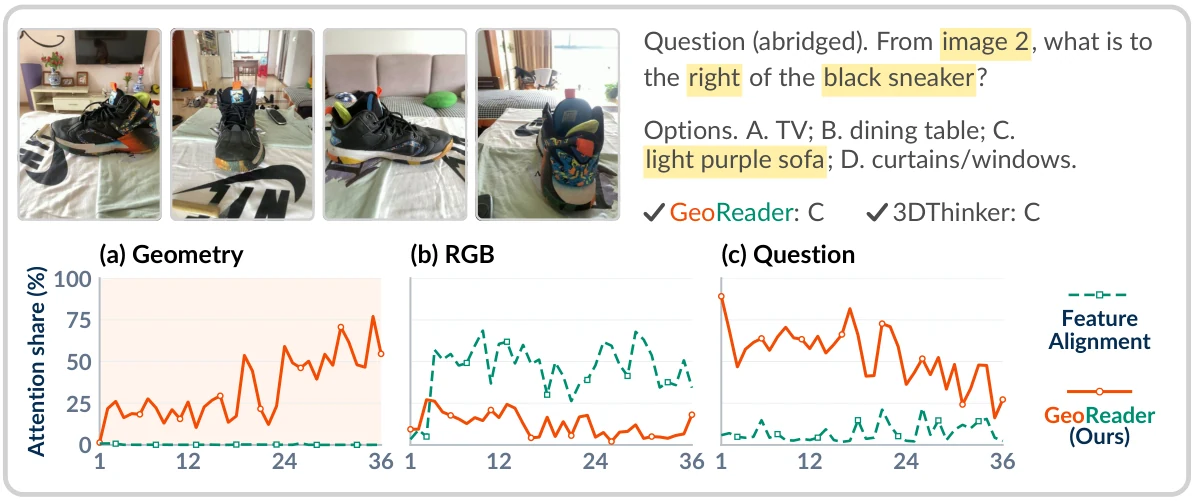
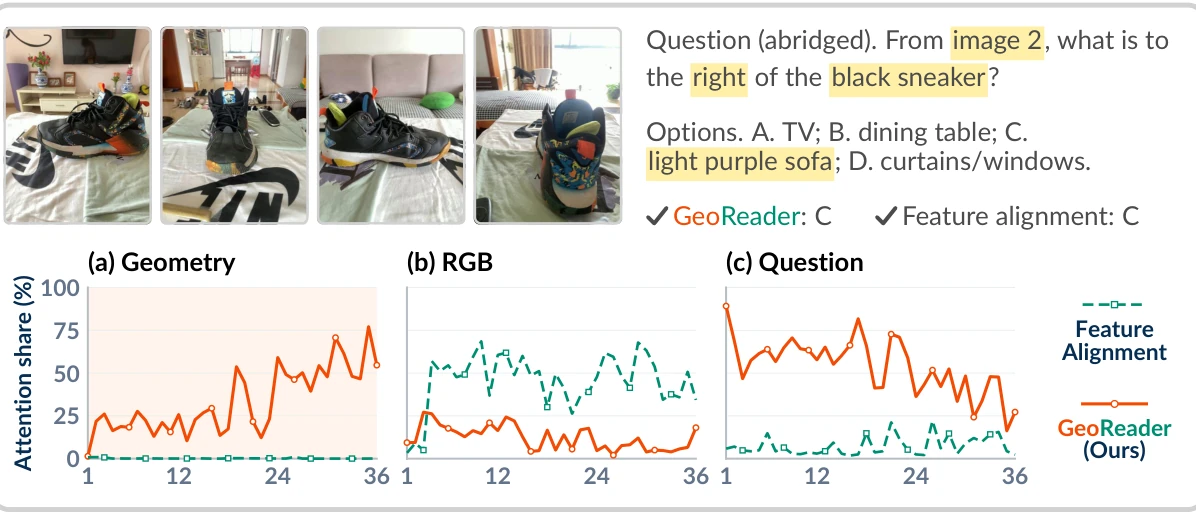
主页用中性标签展示特征对齐对照

Changed region(s): [[0.0, 0.0, 1.0, 1.0], [0.5888, 0.479, 0.7437, 0.5389], [0.3409, 0.479, 0.4338, 0.5389]]

diff --git a/index.html b/index.html
@@ -93,10 +93,10 @@
               <a class="figure-image-link" href="assets/teaser.webp" target="_blank" rel="noopener" aria-label="Open figure at full size"><img src="assets/teaser.webp" alt="A spatial question about a living-room scene, followed by QA-only fusion, feature alignment, and GeoReader's two training stages." width="1620" height="843" /></a>
               <p class="figure-note"><strong>Figure 1.</strong> Three routes from RGB and estimated geometry to a spatial answer. <span class="wordmark"><span class="wordmark-geo">Geo</span><span class="wordmark-reader">Reader</span></span> first makes geometric tokens readable to the VLM, then trains the VLM to use them.</p>
             </div>
-            <p>For example, zeroing the latents of a released feature-alignment checkpoint (3DThinker) leaves its MindCube-Tiny accuracy essentially unchanged (62.7 → 62.9), and its answer tokens barely attend to those latents (Figure 2).</p>
+            <p>For one released feature-alignment checkpoint, zeroing the latents leaves MindCube-Tiny accuracy essentially unchanged (62.7 → 62.9). Figure 2 shows that its answer tokens give little direct attention to those latents in one example.</p>
               <div class="figure-frame visual-figure">
 
-                <a class="figure-image-link" href="assets/answer-attention.webp" target="_blank" rel="noopener" aria-label="Open answer-token attention figure at full size"><img src="assets/answer-attention.webp" alt="A four-view shoe question and layerwise attention-share curves for geometry, RGB, and question tokens, comparing GeoReader with feature alignment." width="1194" height="501" loading="lazy" decoding="async" /></a>
+                <a class="figure-image-link" href="assets/answer-attention.webp" target="_blank" rel="noopener" aria-label="Open answer-token attention figure at full size"><img src="assets/answer-attention.webp" alt="A four-view shoe question and layerwise attention-share curves for geometry, RGB, and question tokens, comparing GeoReader with feature alignment." width="1196" height="515" loading="lazy" decoding="async" /></a>
                 <p class="figure-note"><strong>Figure 2.</strong> On this MindCube-Tiny question, <span class="wordmark"><span class="wordmark-geo">Geo</span><span class="wordmark-reader">Reader</span></span>'s answer tokens attend more to geometric tokens than the feature-alignment model's answer tokens attend to its latents.</p>
               </div>
 
@@ -152,32 +152,32 @@
 <tr><td>HATCH</td><td>31.0</td><td>50.2</td><td>65.6</td><td>50.2</td></tr>
 <tr><td>SenseNova-SI</td><td>–</td><td>–</td><td>–</td><td>52.6</td></tr>
 <tr><td>DR-MV3D</td><td class="second">43.0</td><td>71.3</td><td>73.6</td><td>66.5</td></tr>
-<tr><td>3DThinker</td><td class="best">55.5</td><td class="second">81.8</td><td class="second">75.2</td><td class="second">75.2</td></tr>
+<tr><td>Feature alignment</td><td class="best">55.5</td><td class="second">81.8</td><td class="second">75.2</td><td class="second">75.2</td></tr>
 <tr class="ours"><td><span class="ours-name"><span class="wordmark"><span class="wordmark-geo">Geo</span><span class="wordmark-reader">Reader</span></span></span></td><td>40.5</td><td class="best">90.3</td><td class="best">91.6</td><td class="best">81.1</td></tr>
 <tr class="block-head"><td colspan="5">Qwen2.5-VL · 7B</td></tr>
 <tr><td>Qwen2.5-VL</td><td>35.0</td><td>33.2</td><td>38.4</td><td>34.8</td></tr>
 <tr><td>SenseNova-SI</td><td>–</td><td>–</td><td>–</td><td>54.7</td></tr>
-<tr><td>3DThinker</td><td class="second">55.0</td><td class="second">83.0</td><td class="second">76.0</td><td class="second">76.0</td></tr>
+<tr><td>Feature alignment</td><td class="second">55.0</td><td class="second">83.0</td><td class="second">76.0</td><td class="second">76.0</td></tr>
 <tr class="ours"><td><span class="ours-name"><span class="wordmark"><span class="wordmark-geo">Geo</span><span class="wordmark-reader">Reader</span></span></span></td><td class="best">90.0</td><td class="best">94.7</td><td class="best">92.4</td><td class="best">93.2</td></tr>
 <tr class="block-head"><td colspan="5">Qwen3-VL · 2B</td></tr>
 <tr><td>Qwen3-VL</td><td>29.5</td><td>33.3</td><td>47.2</td><td>35.9</td></tr>
 <tr><td>Spatial-TTT</td><td class="second">55.5</td><td>74.0</td><td class="second">89.8</td><td class="second">76.2</td></tr>
-<tr><td>3DThinker</td><td>53.0</td><td class="second">83.2</td><td>78.4</td><td class="second">76.2</td></tr>
+<tr><td>Feature alignment</td><td>53.0</td><td class="second">83.2</td><td>78.4</td><td class="second">76.2</td></tr>
 <tr class="ours"><td><span class="ours-name"><span class="wordmark"><span class="wordmark-geo">Geo</span><span class="wordmark-reader">Reader</span></span></span></td><td class="best">59.5</td><td class="best">93.3</td><td class="best">91.6</td><td class="best">86.5</td></tr>
 <tr class="block-head"><td colspan="5">Qwen3-VL · 4B</td></tr>
 <tr><td>Qwen3-VL</td><td>25.0</td><td>25.3</td><td>43.6</td><td>29.6</td></tr>
-<tr><td>3DThinker</td><td class="second">55.0</td><td class="second">81.7</td><td class="second">78.4</td><td class="second">75.8</td></tr>
+<tr><td>Feature alignment</td><td class="second">55.0</td><td class="second">81.7</td><td class="second">78.4</td><td class="second">75.8</td></tr>
 <tr class="ours"><td><span class="ours-name"><span class="wordmark"><span class="wordmark-geo">Geo</span><span class="wordmark-reader">Reader</span></span></span></td><td class="best">94.5</td><td class="best">96.2</td><td class="best">89.6</td><td class="best">94.3</td></tr>
 <tr class="block-head"><td colspan="5">Qwen3-VL · 8B</td></tr>
 <tr><td>Qwen3-VL</td><td>42.0</td><td>32.3</td><td>51.2</td><td>38.7</td></tr>
 <tr><td>SenseNova-SI</td><td class="second">79.5</td><td>73.2</td><td>70.4</td><td>73.8</td></tr>
-<tr><td>3DThinker</td><td>56.5</td><td class="second">82.5</td><td class="second">78.8</td><td>76.7</td></tr>
+<tr><td>Feature alignment</td><td>56.5</td><td class="second">82.5</td><td class="second">78.8</td><td>76.7</td></tr>
 <tr><td>GAMSI</td><td>–</td><td>–</td><td>–</td><td class="best">94.1</td></tr>
 <tr class="ours"><td><span class="ours-name"><span class="wordmark"><span class="wordmark-geo">Geo</span><span class="wordmark-reader">Reader</span></span></span></td><td class="best">91.5</td><td class="best">93.3</td><td class="best">95.2</td><td class="second">93.4</td></tr>
 </tbody>
 </table>
             </div>
-            <p class="table-caption"><strong>Table 1.</strong> MindCube-Tiny accuracy (%). Per API or backbone-size block, <span class="key key-best">bold</span> marks the best and <span class="key key-second">gray</span> the runner-up (only with ≥ 3 models; base rows unshaded). <span class="wordmark"><span class="wordmark-geo">Geo</span><span class="wordmark-reader">Reader</span></span> scores highest in four of the five backbone blocks. Literature results are taken from the cited papers (paper Sec. A.3.4).</p>
+            <p class="table-caption"><strong>Table 1.</strong> MindCube-Tiny accuracy (%). Per API or backbone-size block, <span class="key key-best">bold</span> marks the best and <span class="key key-second">gray</span> the runner-up (only with ≥ 3 models; base rows unshaded). <span class="wordmark"><span class="wordmark-geo">Geo</span><span class="wordmark-reader">Reader</span></span> scores highest in four of the five backbone blocks. Full method names and sources for literature results are in the paper (Sec. A.3.4).</p>
 
             <h3 class="sub-title">Six spatial benchmarks</h3>
             <div class="table-wrap">
@@ -188,7 +188,7 @@
 <tr><td>Qwen2.5-VL-3B<sup>†</sup></td><td>27.3</td><td>39.5</td><td>70.5</td><td>27.9</td><td>36.1</td><td>25.5</td><td>37.8</td></tr>
 <tr><td>Spatial-MLLM-4B</td><td>47.3</td><td>48.4</td><td>73.8</td><td>35.1</td><td>43.6</td><td>31.5</td><td>46.6</td></tr>
 <tr><td>SpatialLadder-3B</td><td>45.7</td><td class="best">70.6</td><td>73.7</td><td>34.4</td><td>44.2</td><td>29.2</td><td>49.6</td></tr>
-<tr><td>3DThinker-3B</td><td class="best">59.1</td><td>60.2</td><td class="second">78.4</td><td class="second">58.2</td><td class="second">64.7</td><td class="best">41.9</td><td class="second">60.4</td></tr>
+<tr><td>Feature alignment · 3B</td><td class="best">59.1</td><td>60.2</td><td class="second">78.4</td><td class="second">58.2</td><td class="second">64.7</td><td class="best">41.9</td><td class="second">60.4</td></tr>
 <tr class="block-gap"><td colspan="8"></td></tr>
 <tr class="ours"><td><span class="ours-name"><span class="wordmark"><span class="wordmark-geo">Geo</span><span class="wordmark-reader">Reader</span></span></span>-3B</td><td class="second">56.1</td><td class="second">70.0</td><td class="best">83.7</td><td class="best">59.1</td><td class="best">71.4</td><td class="second">41.2</td><td class="best">63.6</td></tr>
 <tr class="block-gap"><td colspan="8"></td></tr>
@@ -196,7 +196,7 @@
 <tr><td>SpaceR-7B</td><td>44.5</td><td>54.0</td><td>75.3</td><td>37.1</td><td>45.5</td><td>28.8</td><td>47.5</td></tr>
 <tr><td>ViLaSR-7B</td><td>45.4</td><td>53.9</td><td>77.1</td><td>37.6</td><td>46.1</td><td>30.2</td><td>48.4</td></tr>
 <tr><td>Video-R1</td><td>33.4</td><td>42.8</td><td>69.6</td><td>31.5</td><td>36.1</td><td>29.4</td><td>40.5</td></tr>
-<tr><td>3DThinker-7B</td><td class="best">63.7</td><td class="second">68.3</td><td class="second">81.1</td><td class="best">63.3</td><td class="second">68.6</td><td class="second">43.3</td><td class="second">64.7</td></tr>
+<tr><td>Feature alignment · 7B</td><td class="best">63.7</td><td class="second">68.3</td><td class="second">81.1</td><td class="best">63.3</td><td class="second">68.6</td><td class="second">43.3</td><td class="second">64.7</td></tr>
 <tr class="block-gap"><td colspan="8"></td></tr>
 <tr class="ours"><td><span class="ours-name"><span class="wordmark"><span class="wordmark-geo">Geo</span><span class="wordmark-reader">Reader</span></span></span>-7B</td><td class="second">58.0</td><td class="best">72.3</td><td class="best">84.4</td><td class="second">61.4</td><td class="best">75.6</td><td class="best">45.5</td><td class="best">66.2</td></tr>
 <tr class="block-head"><td colspan="8">Qwen3-VL family</td></tr>
@@ -219,7 +219,7 @@
 </tbody>
 </table>
             </div>
-            <p class="table-caption"><strong>Table 2.</strong> Six-benchmark accuracy (%); Avg. is the mean. Per backbone-size block, <span class="key key-best">bold</span> marks the best and <span class="key key-second">gray</span> the runner-up (only with ≥ 3 models; base rows unshaded); <sup>†</sup> evaluated by us; <sup>*</sup> combined from two sources (paper Sec. A.3.4). <span class="wordmark"><span class="wordmark-geo">Geo</span><span class="wordmark-reader">Reader</span></span> has the highest average in every block.</p>
+            <p class="table-caption"><strong>Table 2.</strong> Six-benchmark accuracy (%); Avg. is the mean. Per backbone-size block, <span class="key key-best">bold</span> marks the best and <span class="key key-second">gray</span> the runner-up (only with ≥ 3 models; base rows unshaded); <sup>†</sup> evaluated by us; <sup>*</sup> combined from two sources. Full method names and sources are in the paper (Sec. A.3.4). <span class="wordmark"><span class="wordmark-geo">Geo</span><span class="wordmark-reader">Reader</span></span> has the highest average in every block.</p>
           </section>
 
           <section id="use" class="section" aria-labelledby="use-title">
@@ -236,7 +236,7 @@
                 </tbody>
               </table>
             </div>
-            <p class="table-caption"><strong>Table 3.</strong> MindCube-Tiny accuracy (%) under geometry interventions with Qwen2.5-VL-3B. <span class="wordmark"><span class="wordmark-geo">Geo</span><span class="wordmark-reader">Reader</span></span> uses annotation-derived camera geometry; feature alignment is the released first-stage 3DThinker checkpoint, whose latents are zeroed or swapped across questions. Only <span class="wordmark"><span class="wordmark-geo">Geo</span><span class="wordmark-reader">Reader</span></span> drops markedly.</p>
+            <p class="table-caption"><strong>Table 3.</strong> MindCube-Tiny accuracy (%) under geometry interventions with Qwen2.5-VL-3B. <span class="wordmark"><span class="wordmark-geo">Geo</span><span class="wordmark-reader">Reader</span></span> uses annotation-derived camera geometry; the comparison uses one released first-stage feature-alignment checkpoint, whose latents are zeroed or swapped across questions. The full checkpoint citation and evaluation details are in the paper.</p>
 
             <h3 class="sub-title">Answer-token attention</h3>
             <p>The attention plots show where answer tokens look in questions that both models answer correctly; Figure 2 in the motivation shows one example, and the curves below cover one question from each MindCube-Tiny category. Geometry-content interventions test whether <span class="wordmark"><span class="wordmark-geo">Geo</span><span class="wordmark-reader">Reader</span></span>'s answers depend on its tokens.</p>
@@ -244,7 +244,7 @@
                 <summary>More attention curves · three question categories</summary>
                 <div class="figure-frame visual-figure">
 
-                  <a class="figure-image-link" href="assets/attention-cases.webp" target="_blank" rel="noopener" aria-label="Open three attention cases at full size"><img src="assets/attention-cases.webp" alt="Three MindCube-Tiny questions with input images, both models' correct answers, and layerwise attention shares for geometry, RGB, and question tokens." width="1194" height="1803" loading="lazy" decoding="async" /></a>
+                  <a class="figure-image-link" href="assets/attention-cases.webp" target="_blank" rel="noopener" aria-label="Open three attention cases at full size"><img src="assets/attention-cases.webp" alt="Three MindCube-Tiny questions with input images, both models' correct answers, and layerwise attention shares for geometry, RGB, and question tokens." width="1196" height="1861" loading="lazy" decoding="async" /></a>
                   <p class="figure-note"><strong>Figure 5.</strong> One question from each MindCube-Tiny category. Both models answer all three correctly; the curves compare direct answer-token attention in these cases.</p>
                 </div>
               </details>

diff --git a/README.md b/README.md
@@ -16,6 +16,6 @@ The GeoReader wordmark follows the paper's `paper_commands.tex`: bold Geo in `#F
 
 `assets/model-logos/` holds the five SVG vendor marks used by the API rows in Table 1. They match the paper's `figures/model_logos/` assets; provenance and the note that these are community renditions are in that folder's README.
 
-The five WebP visualizations are cropped from Figures 3, 4, 9, 10, and 11 of the signed paper PDF (pages 8, 9, 32, 33, and 34). Re-export them when the paper figures or pagination change.
+The WebP visualizations come from the signed paper PDF. The two attention figures use homepage-only versions of the paper's TeX figure layouts: their comparison labels read "Feature alignment" on the homepage, while the paper keeps the named citation and full attribution. Re-export these assets when the paper figures or pagination change.
 
 Page order: Abstract → 01 Motivation → 02 Method → 03 Training data → 04 Main results → 05 Use of geometry → 06 Ablations → 07 Spatial QA cases → Authors. Tables 1 and 2 in Main results are generated from the paper's LaTeX sources (`tables/mindcube_ego3d_results.tex`, `tables/main_results.tex`), keeping each block's best (bold, orange) and runner-up (gray) marks; Table 3 (geometry interventions) and the three ablation tables copy values from the paper's Tables 4, 5, 7 and 8. Figures and tables are numbered continuously on the page (Figure 1–8, Table 1–3) without separating main-paper and supplementary material. The additional attention cases start collapsed; correct spatial-QA answers and failure cases remain visible. Regenerate or update the figures and tables together with the paper.
